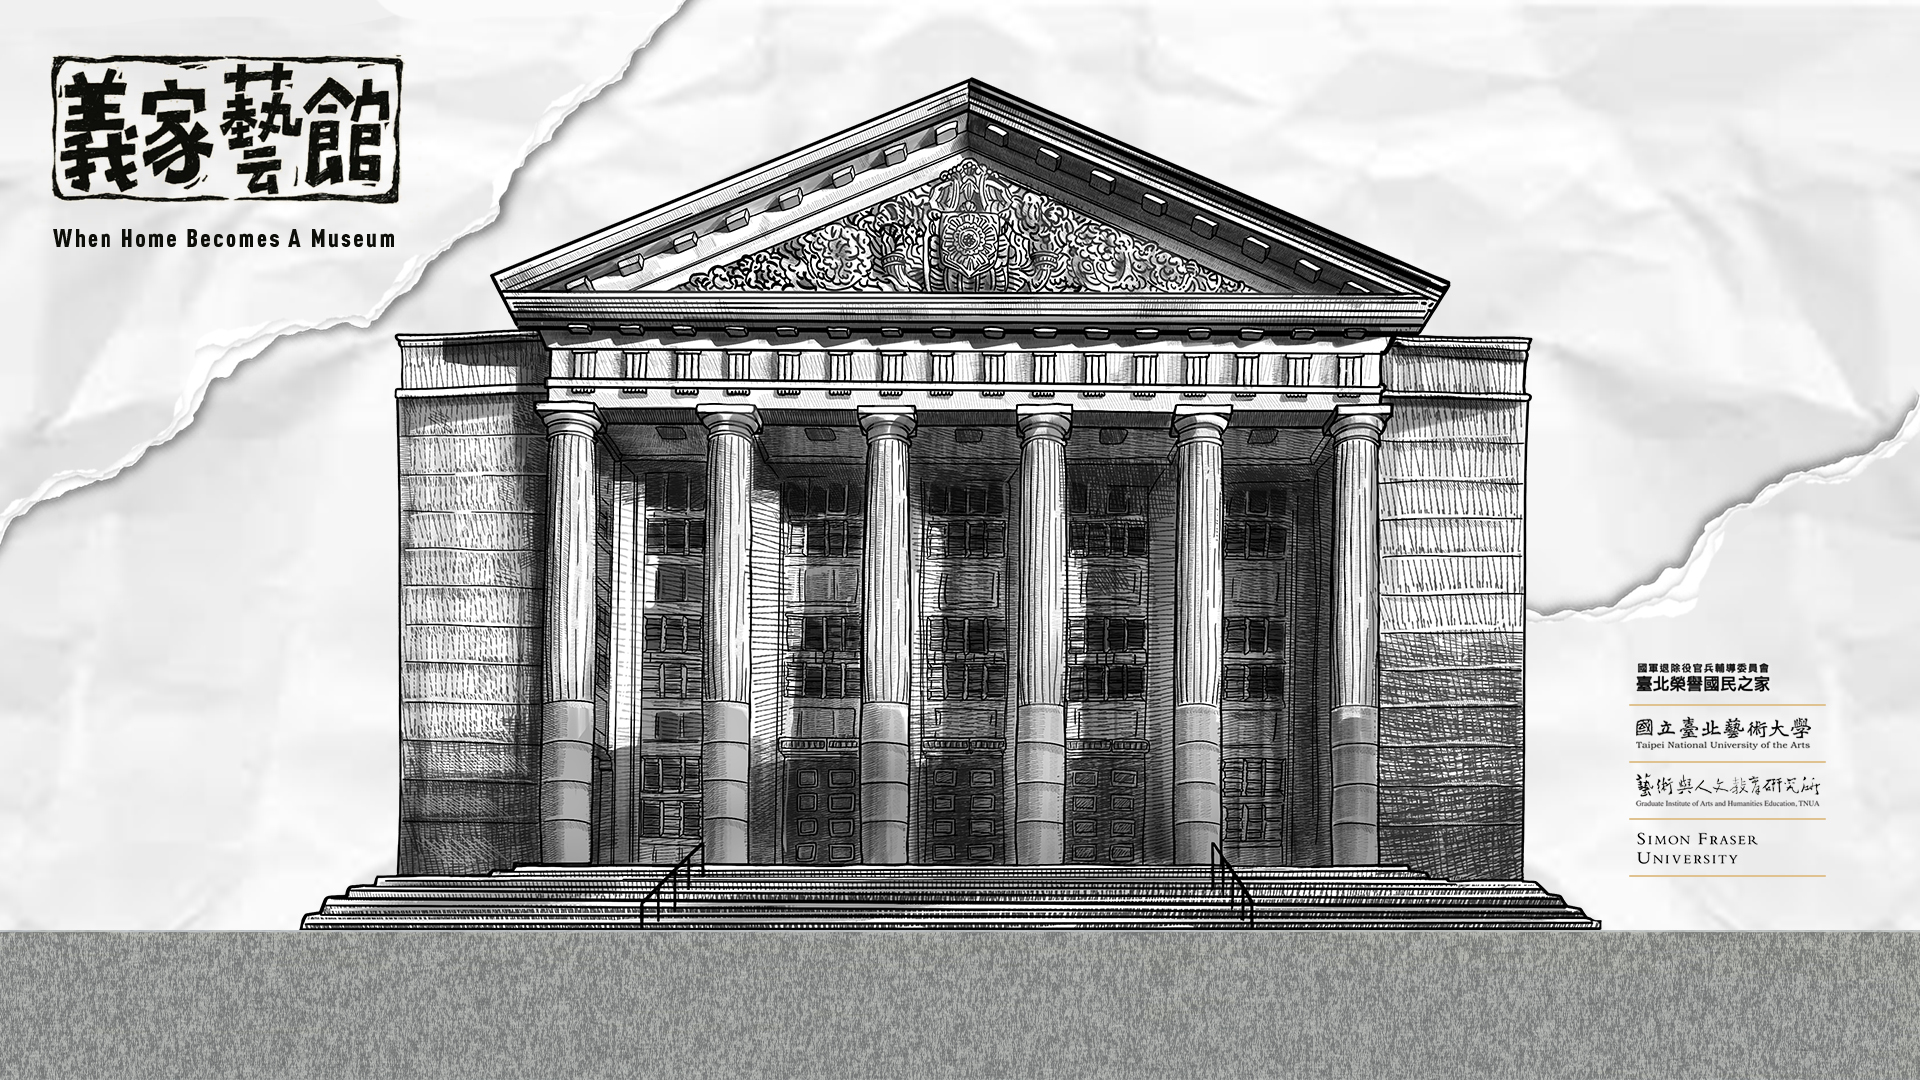
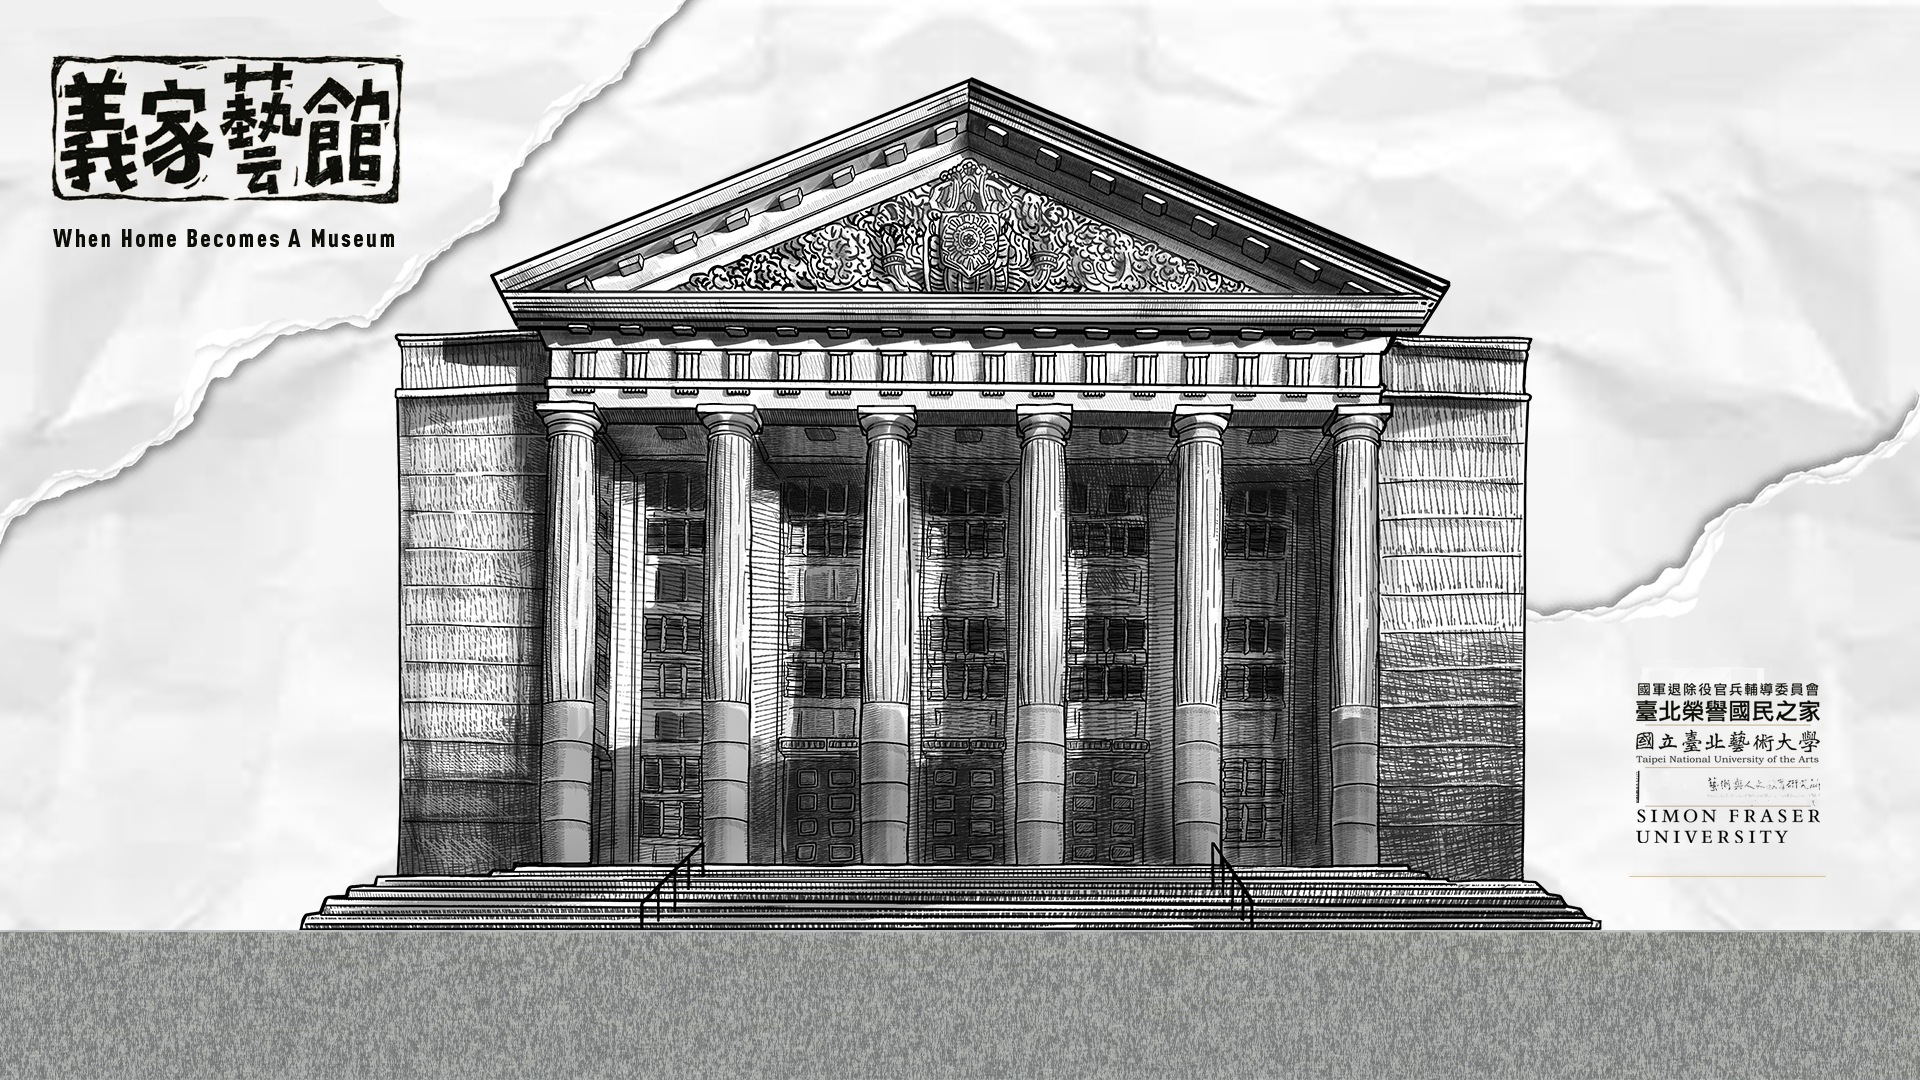
0719 commit v2

Changed region(s): [[0.8438, 0.6111, 0.9688, 0.825]]

diff --git a/app/inner-pages.js b/app/inner-pages.js
@@ -9,8 +9,8 @@ function layoutAssets() {
     logoBuilding: layout.logoBuilding || "./assets/images/layout/logo-building.png",
     logoTitle: layout.logoTitle || "./assets/images/layout/logo-title.png",
     partnerLogos: layout.partnerLogos || "./assets/images/layout/partner-logo.png",
-    iconYoutube: layout.iconYoutube || "./assets/images/layout/icon-youtube.png",
-    iconFacebook: layout.iconFacebook || "./assets/images/layout/icon-facebook.png",
+    iconYoutube: layout.iconYoutube || "./assets/images/logo/youtube.png",
+    iconFacebook: layout.iconFacebook || "./assets/images/logo/facebook.png",
   };
 }
 

diff --git a/app/styles.css b/app/styles.css
@@ -1682,9 +1682,9 @@ body.isInnerPage .mainInner{
   /* 背景圖橫向略放大，左右邊緣裁出視窗外以遮住素材瑕疵 */
   --layout-bg-bleed-x: 1.08;
   /* Footer 內容定位（可單獨調整，不影響背景圖等比高度） */
-  --footer-partners-top-ratio: 0.34;
-  --footer-partners-width: 180;
-  --footer-partners-max-h-ratio: 0.58;
+  --footer-partners-top-ratio: 0.36;
+  --footer-partners-width: 132;
+  --footer-partners-max-h-ratio: 0.50;
   --footer-contact-top-ratio: 0.40;
   --footer-social-top-ratio: 0.44;
 }
